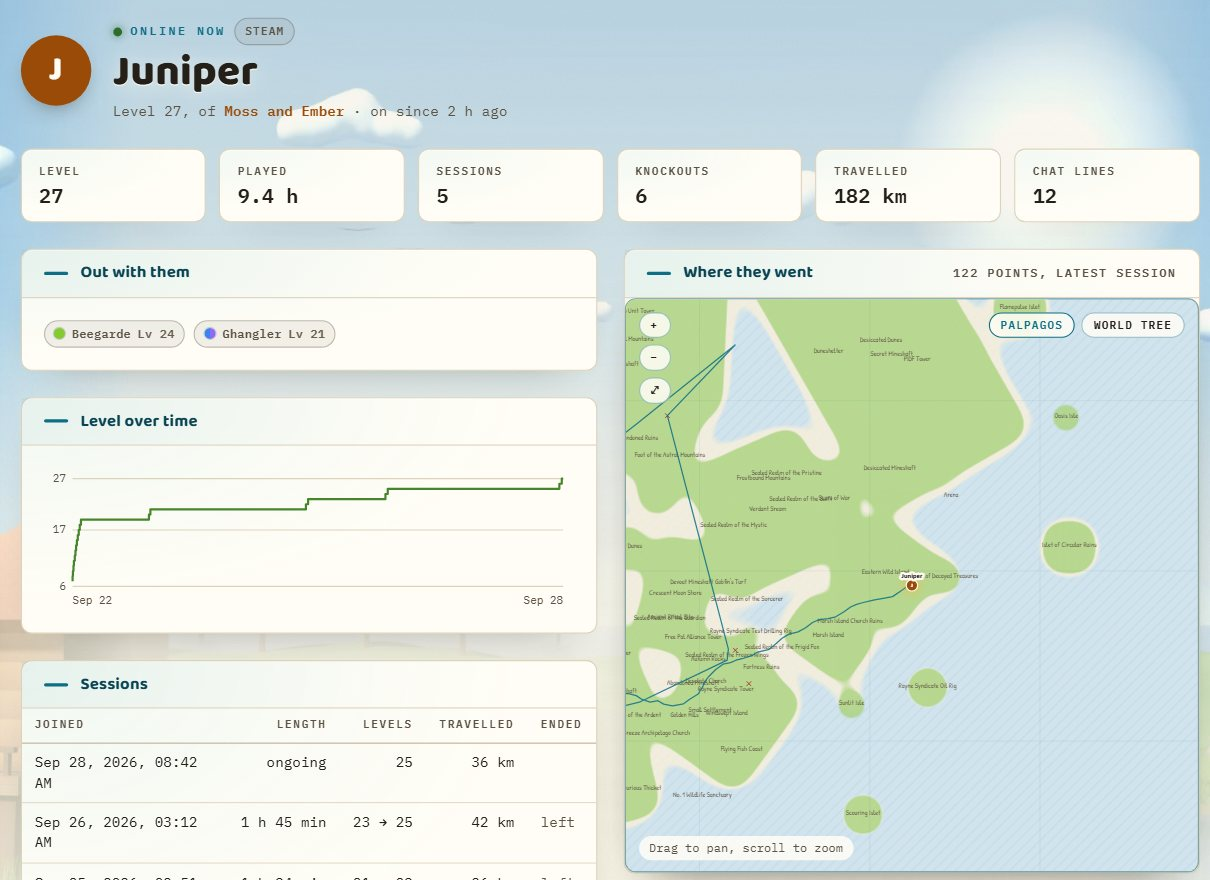
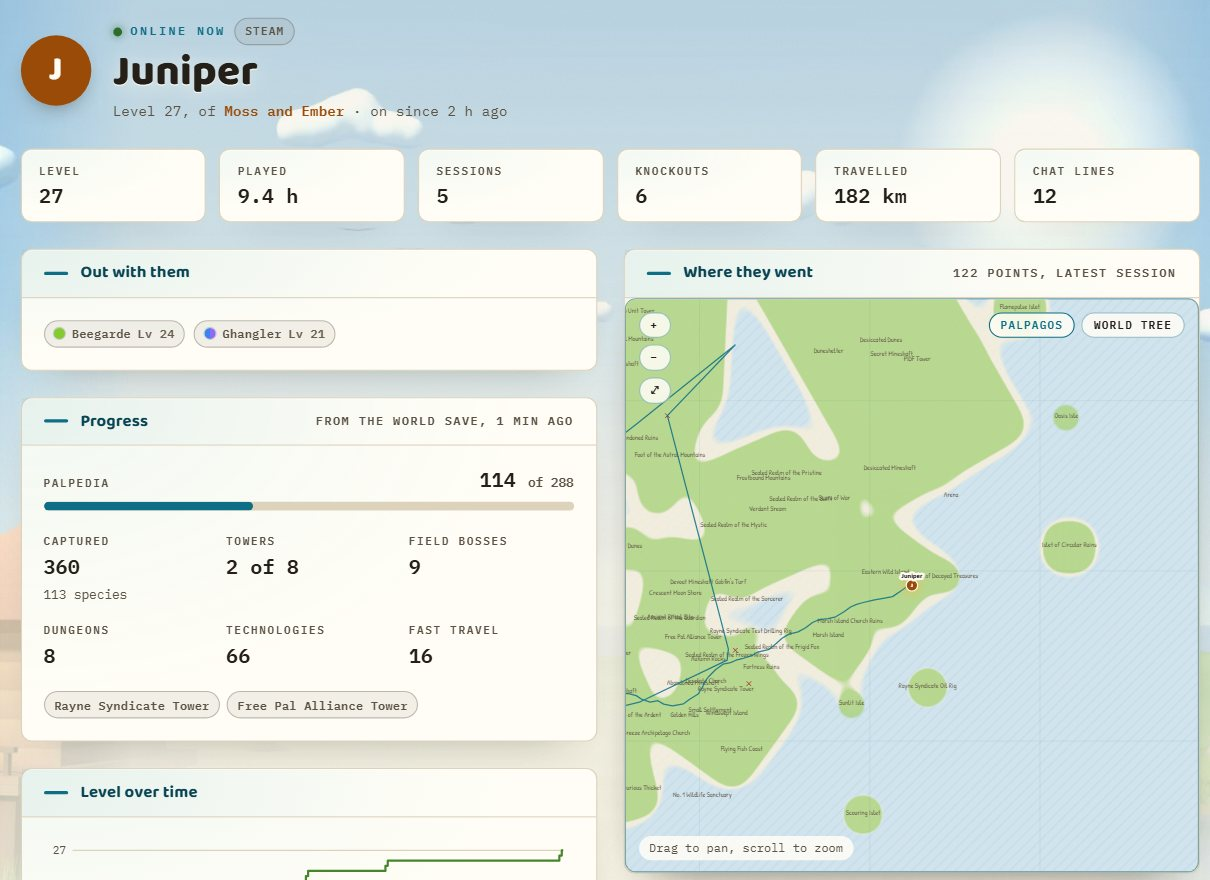
README pictures show the progress card and the new scenery
The player page gains the Progress card from the world save in this
branch; the README and landing page screenshots are retaken from it,
over the new backdrop, and the alt text says so.

diff --git a/site/index.html b/site/index.html
@@ -382,7 +382,7 @@
             <p>An original map drawn from the game's own region data, with the Great Eagle Statues and towers. Players move on it as they play, next to the bases, the wild Pals around them and the day's knockouts.</p>
           </div>
           <div class="feature">
-            <img class="shot" src="assets/player.jpg" width="1210" height="880" alt="A player page with the Pals out with them, their level over time and the trail of a session" loading="lazy" />
+            <img class="shot" src="assets/player.jpg" width="1210" height="880" alt="A player page with the Pals out with them, their progress from the world save and the trail of a session" loading="lazy" />
             <h3>Player pages</h3>
             <p>Playtime, sessions, level history, knockouts and distance travelled for everyone who plays, with the Pals out with them right now and the trail of each session on the map.</p>
           </div>

diff --git a/README.md b/README.md
@@ -33,7 +33,7 @@ Skylark gives your Palworld dedicated server its own website. A small collector 
   </tr>
 </table>
 
-<img src="site/assets/player.jpg" alt="A player page with the Pals out with them, their level over time and the trail of their session" width="100%">
+<img src="site/assets/player.jpg" alt="A player page with the Pals out with them, their progress from the world save and the trail of their session" width="100%">
 
 ### Player pages
 
